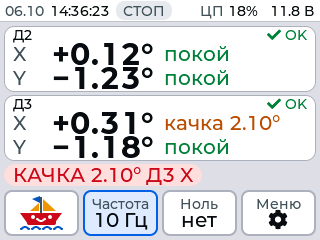
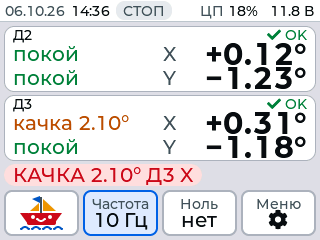
Экран прибора: дата ДД.ММ.ГГ и время ЧЧ:ММ, в карточках слева качка, справа углы
- Шапка: дата с годом, время без секунд.
- Карточки датчиков: в строке каждой оси слева «покой» / «качка x.xx°» /
  «сбор N с», справа подпись X / Y и угол, прижатый к правому краю.
- Снимки экрана в docs/img обновлены.

Changed region(s): [[0.0312, 0.4667, 0.9688, 0.6708], [0.0312, 0.175, 0.9688, 0.3792], [0.125, 0.0, 0.3438, 0.0875]]

diff --git a/BWM427_Inclinometer/Core/Src/ui/ui_main.c b/BWM427_Inclinometer/Core/Src/ui/ui_main.c
@@ -2,10 +2,11 @@
  * ui_main.c — главный экран: строка состояния, карточки двух датчиков,
  * качка, органы управления (кораблик, Частота, Ноль, Меню).
  *
- *  y   0..21   07.10 14:36:21 [ЗАП]          ЦП 23%  11.8 В
+ *  y   0..21   06.10.26 14:36 [ЗАП]          ЦП 23%  11.8 В
  *  y  26..91   ┌ Д2 ●                         ✓ OK ┐  карточка датчика: шапка
- *              │ X  +0.12°   покой                 │  (имя, запись, связь),
- *              └ Y  −1.23°   качка 1.23°           ┘  по осям — угол и качка
+ *              │ покой              X    +0.12°    │  (имя, запись, связь),
+ *              └ качка 1.23°        Y    −1.23°    ┘  по осям — слева качка,
+ *                                                     справа угол
  *  y  95..160  ┌ Д3 ... ┐
  *  y 164..185  [✓ ГОТОВ] / [КАЧКА 1.23° Д3 X]      запись 01:05
  *  y 190..235  [кораблик][Частота][Ноль][Меню]
@@ -48,9 +49,9 @@
 #define HDR_X           8       // имя датчика
 #define HDR_Y           (-1)
 #define HDR_R           8       // состояние связи — у правого края
-#define CAP_X           8       // подпись X / Y
-#define VAL_X           26      // поле угла (ширина — под "−88.88°", val_w)
-#define ROLL_GAP        10      // от поля угла до «качка/покой»
+#define ROLL_X          8       // «покой» / «качка 1.23°» — у левого края
+#define VAL_R           8       // поле угла — у правого края (ширина под "−88.88°", val_w)
+#define CAP_GAP         8       // от подписи X / Y до поля угла
 #define ROW_X_Y         16      // строка X
 #define ROW_Y_Y         40      // строка Y
 #define STAB_Y          164
@@ -247,21 +248,33 @@ static void ship_draw_cb(lv_event_t *e) {
 	ship_arc(layer, x0, y0, UI_C_CARD, 22, 21, 5, 25, 155);
 }
 
-// Число угла: правый край поля угла, ширина под самое длинное значение
+// Число угла: у правого края карточки, ширина под самое длинное значение,
+// выравнивание по правому краю (знаки и точки стоят друг под другом)
 static lv_obj_t* value_label_create(lv_obj_t *parent, int32_t y) {
 	lv_obj_t *l = ui_label_create(parent, UI_FONT_NUM, UI_C_TEXT);
 	lv_label_set_long_mode(l, LV_LABEL_LONG_MODE_CLIP);
 	lv_obj_set_style_text_align(l, LV_TEXT_ALIGN_RIGHT, 0);
 	lv_obj_set_size(l, val_w, lv_font_get_line_height(UI_FONT_NUM));
-	lv_obj_set_pos(l, VAL_X, y);
+	lv_obj_align(l, LV_ALIGN_TOP_RIGHT, -VAL_R, y);
 	return l;
 }
 
-// Надпись шрифтом 20 (подпись X / Y, качка по оси) — по высоте посередине цифр
+// Надпись шрифтом 20 (качка по оси, подпись X / Y) — по высоте посередине цифр
+static int32_t row_label_y(int32_t row_y) {
+	return row_y + (lv_font_get_line_height(UI_FONT_NUM) - lv_font_get_line_height(UI_FONT_MID)) / 2;
+}
+
+// ... от левого края
 static lv_obj_t* row_label_create(lv_obj_t *parent, int32_t x, int32_t row_y, ui_col_t color) {
 	lv_obj_t *l = ui_label_create(parent, UI_FONT_MID, color);
-	lv_obj_set_pos(l, x, row_y + (lv_font_get_line_height(UI_FONT_NUM)
-			- lv_font_get_line_height(UI_FONT_MID)) / 2);
+	lv_obj_set_pos(l, x, row_label_y(row_y));
+	return l;
+}
+
+// ... правым краем в right пикселях от правого края карточки
+static lv_obj_t* row_label_create_r(lv_obj_t *parent, int32_t right, int32_t row_y, ui_col_t color) {
+	lv_obj_t *l = ui_label_create(parent, UI_FONT_MID, color);
+	lv_obj_align(l, LV_ALIGN_TOP_RIGHT, -right, row_label_y(row_y));
 	return l;
 }
 
@@ -280,13 +293,14 @@ static void card_create(int i) {
 	c->link = ui_label_create(c->card, UI_FONT_SMALL, UI_C_DIM);
 	lv_obj_align(c->link, LV_ALIGN_TOP_RIGHT, -HDR_R, HDR_Y);
 
-	// Строки осей: подпись, угол, качка
-	lv_label_set_text_static(row_label_create(c->card, CAP_X, ROW_X_Y, UI_C_DIM), "X");
-	lv_label_set_text_static(row_label_create(c->card, CAP_X, ROW_Y_Y, UI_C_DIM), "Y");
+	// Строки осей: слева качка, справа подпись X / Y и угол
+	c->roll_x = row_label_create(c->card, ROLL_X, ROW_X_Y, UI_C_DIM);
+	c->roll_y = row_label_create(c->card, ROLL_X, ROW_Y_Y, UI_C_DIM);
+	int32_t cap_r = VAL_R + val_w + CAP_GAP;
+	lv_label_set_text_static(row_label_create_r(c->card, cap_r, ROW_X_Y, UI_C_DIM), "X");
+	lv_label_set_text_static(row_label_create_r(c->card, cap_r, ROW_Y_Y, UI_C_DIM), "Y");
 	c->val_x = value_label_create(c->card, ROW_X_Y);
 	c->val_y = value_label_create(c->card, ROW_Y_Y);
-	c->roll_x = row_label_create(c->card, VAL_X + val_w + ROLL_GAP, ROW_X_Y, UI_C_DIM);
-	c->roll_y = row_label_create(c->card, VAL_X + val_w + ROLL_GAP, ROW_Y_Y, UI_C_DIM);
 
 	c->shown = CHIP_NONE;
 }
@@ -298,15 +312,16 @@ void ui_main_create(void) {
 	// --- Строка состояния ---
 	lv_obj_t *bar = ui_bar_create(scr, BAR_H);
 
-	// Дата и время: цифры моноширинные, поэтому места под «00.00» и
-	// «00:00:00» хватает при любом значении, и плашка записи не сдвигается
+	// Дата ДД.ММ.ГГ и время ЧЧ:ММ: цифры моноширинные, поэтому места под
+	// «00.00.00» и «00:00» хватает при любом значении, и плашка записи не
+	// сдвигается
 	int32_t x = BAR_PAD_L;
 	lbl_date = ui_label_create(bar, UI_FONT_SMALL, UI_C_DIM);
 	lv_obj_align(lbl_date, LV_ALIGN_LEFT_MID, x, 0);
-	x += ui_text_width("00.00", UI_FONT_SMALL) + BAR_GAP_L;
+	x += ui_text_width("00.00.00", UI_FONT_SMALL) + BAR_GAP_L;
 	lbl_time = ui_label_create(bar, UI_FONT_SMALL, UI_C_TEXT);
 	lv_obj_align(lbl_time, LV_ALIGN_LEFT_MID, x, 0);
-	x += ui_text_width("00:00:00", UI_FONT_SMALL) + BAR_GAP_L;
+	x += ui_text_width("00:00", UI_FONT_SMALL) + BAR_GAP_L;
 
 	// Самая длинная надпись — «НЕТ SD»: до загрузки ЦП («ЦП 100%») остаётся
 	// не меньше 6 px (проверка в симуляторе)
@@ -423,9 +438,9 @@ static void update_status_bar(uint32_t now) {
 	char buf[32];
 	const app_time_t *t = &g_app.time;
 
-	lv_snprintf(buf, sizeof(buf), "%02u.%02u", t->date, t->month);
+	lv_snprintf(buf, sizeof(buf), "%02u.%02u.%02u", t->date, t->month, t->year);
 	ui_set_text(lbl_date, buf);
-	lv_snprintf(buf, sizeof(buf), "%02u:%02u:%02u", t->hours, t->minutes, t->seconds);
+	lv_snprintf(buf, sizeof(buf), "%02u:%02u", t->hours, t->minutes);
 	ui_set_text(lbl_time, buf);
 	// Без DS3231 время после включения неверное — подсвечиваем
 	ui_set_text_color(lbl_time, g_app.rtc_present ? UI_C_TEXT : UI_C_ORANGE);

diff --git a/README.md b/README.md
@@ -388,14 +388,15 @@ flowchart LR
 
 **Главный экран** (сверху вниз):
 
-- строка состояния: дата (ДД.ММ) и время (без DS3231 — оранжевым), плашка
+- строка состояния: дата ДД.ММ.ГГ и время ЧЧ:ММ (без DS3231 — оранжевым), плашка
   записи «ЗАП» (мигает) / «СТОП» / «СБОЙ» (ошибка записи на SD) / «НЕТ SD»,
   загрузка процессора «ЦП NN%» (от 50 % оранжевым, от 80 % красным),
   напряжение питания (тревога АКБ — мигающая красная плашка, от USB — «USB»);
 - карточки Д2 и Д3: связь (✓ OK / нет связи / не подключен / битые ответы:
-  дубль адреса?), точка ● — датчик пишется на карту; углы X и Y, справа от
-  каждого — качка по оси: «покой» (зелёный), «качка 1.23°» (оранжевый, больше
-  3° — красный), «сбор 12 с» (окно ещё не набрано);
+  дубль адреса?), точка ● — датчик пишется на карту; по строке на ось: слева
+  качка по оси — «покой» (зелёный), «качка 1.23°» (оранжевый, больше 3° —
+  красный), «сбор 12 с» (окно ещё не набрано), справа подпись X / Y и угол
+  крупно, прижатый к правому краю;
 - сводка качки: «✓ ГОТОВ» / «КАЧКА 2.10° Д3 X» (худшая ось) / «сбор 12/20 с»
   («КАЧКА —» — ни один датчик не отвечает);
   справа — строка сообщений (по важности: только что показанное сообщение,
